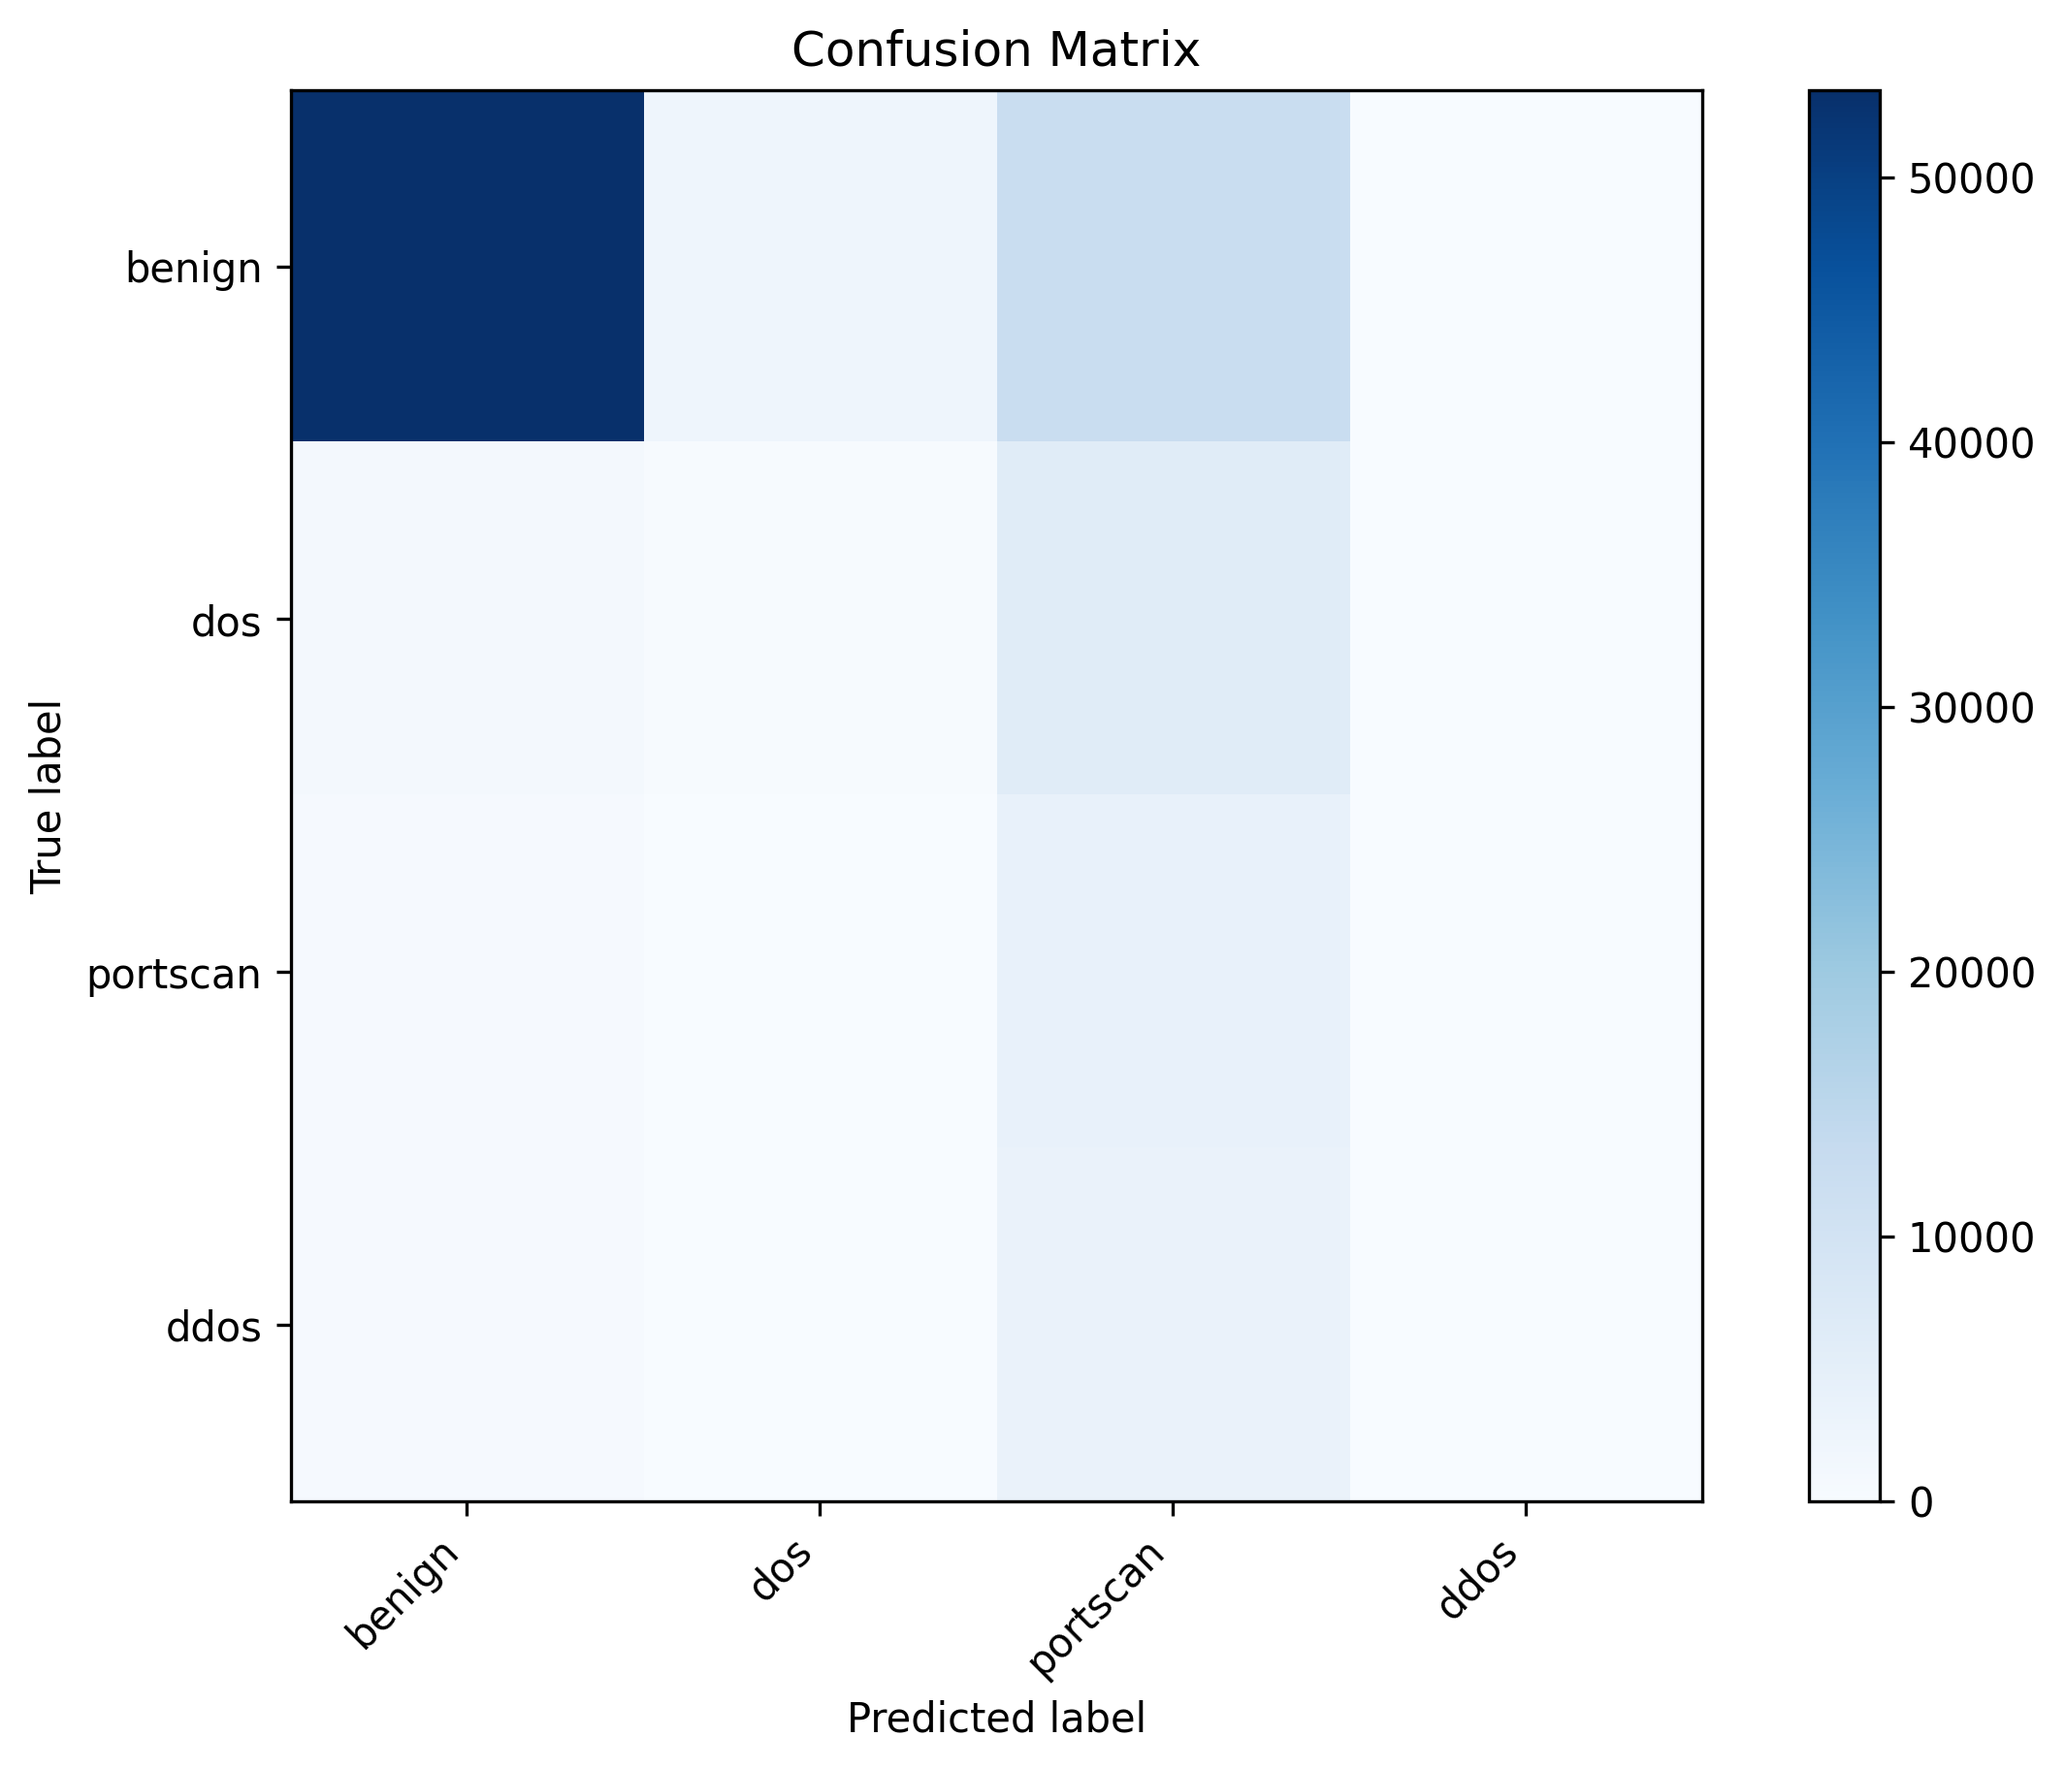
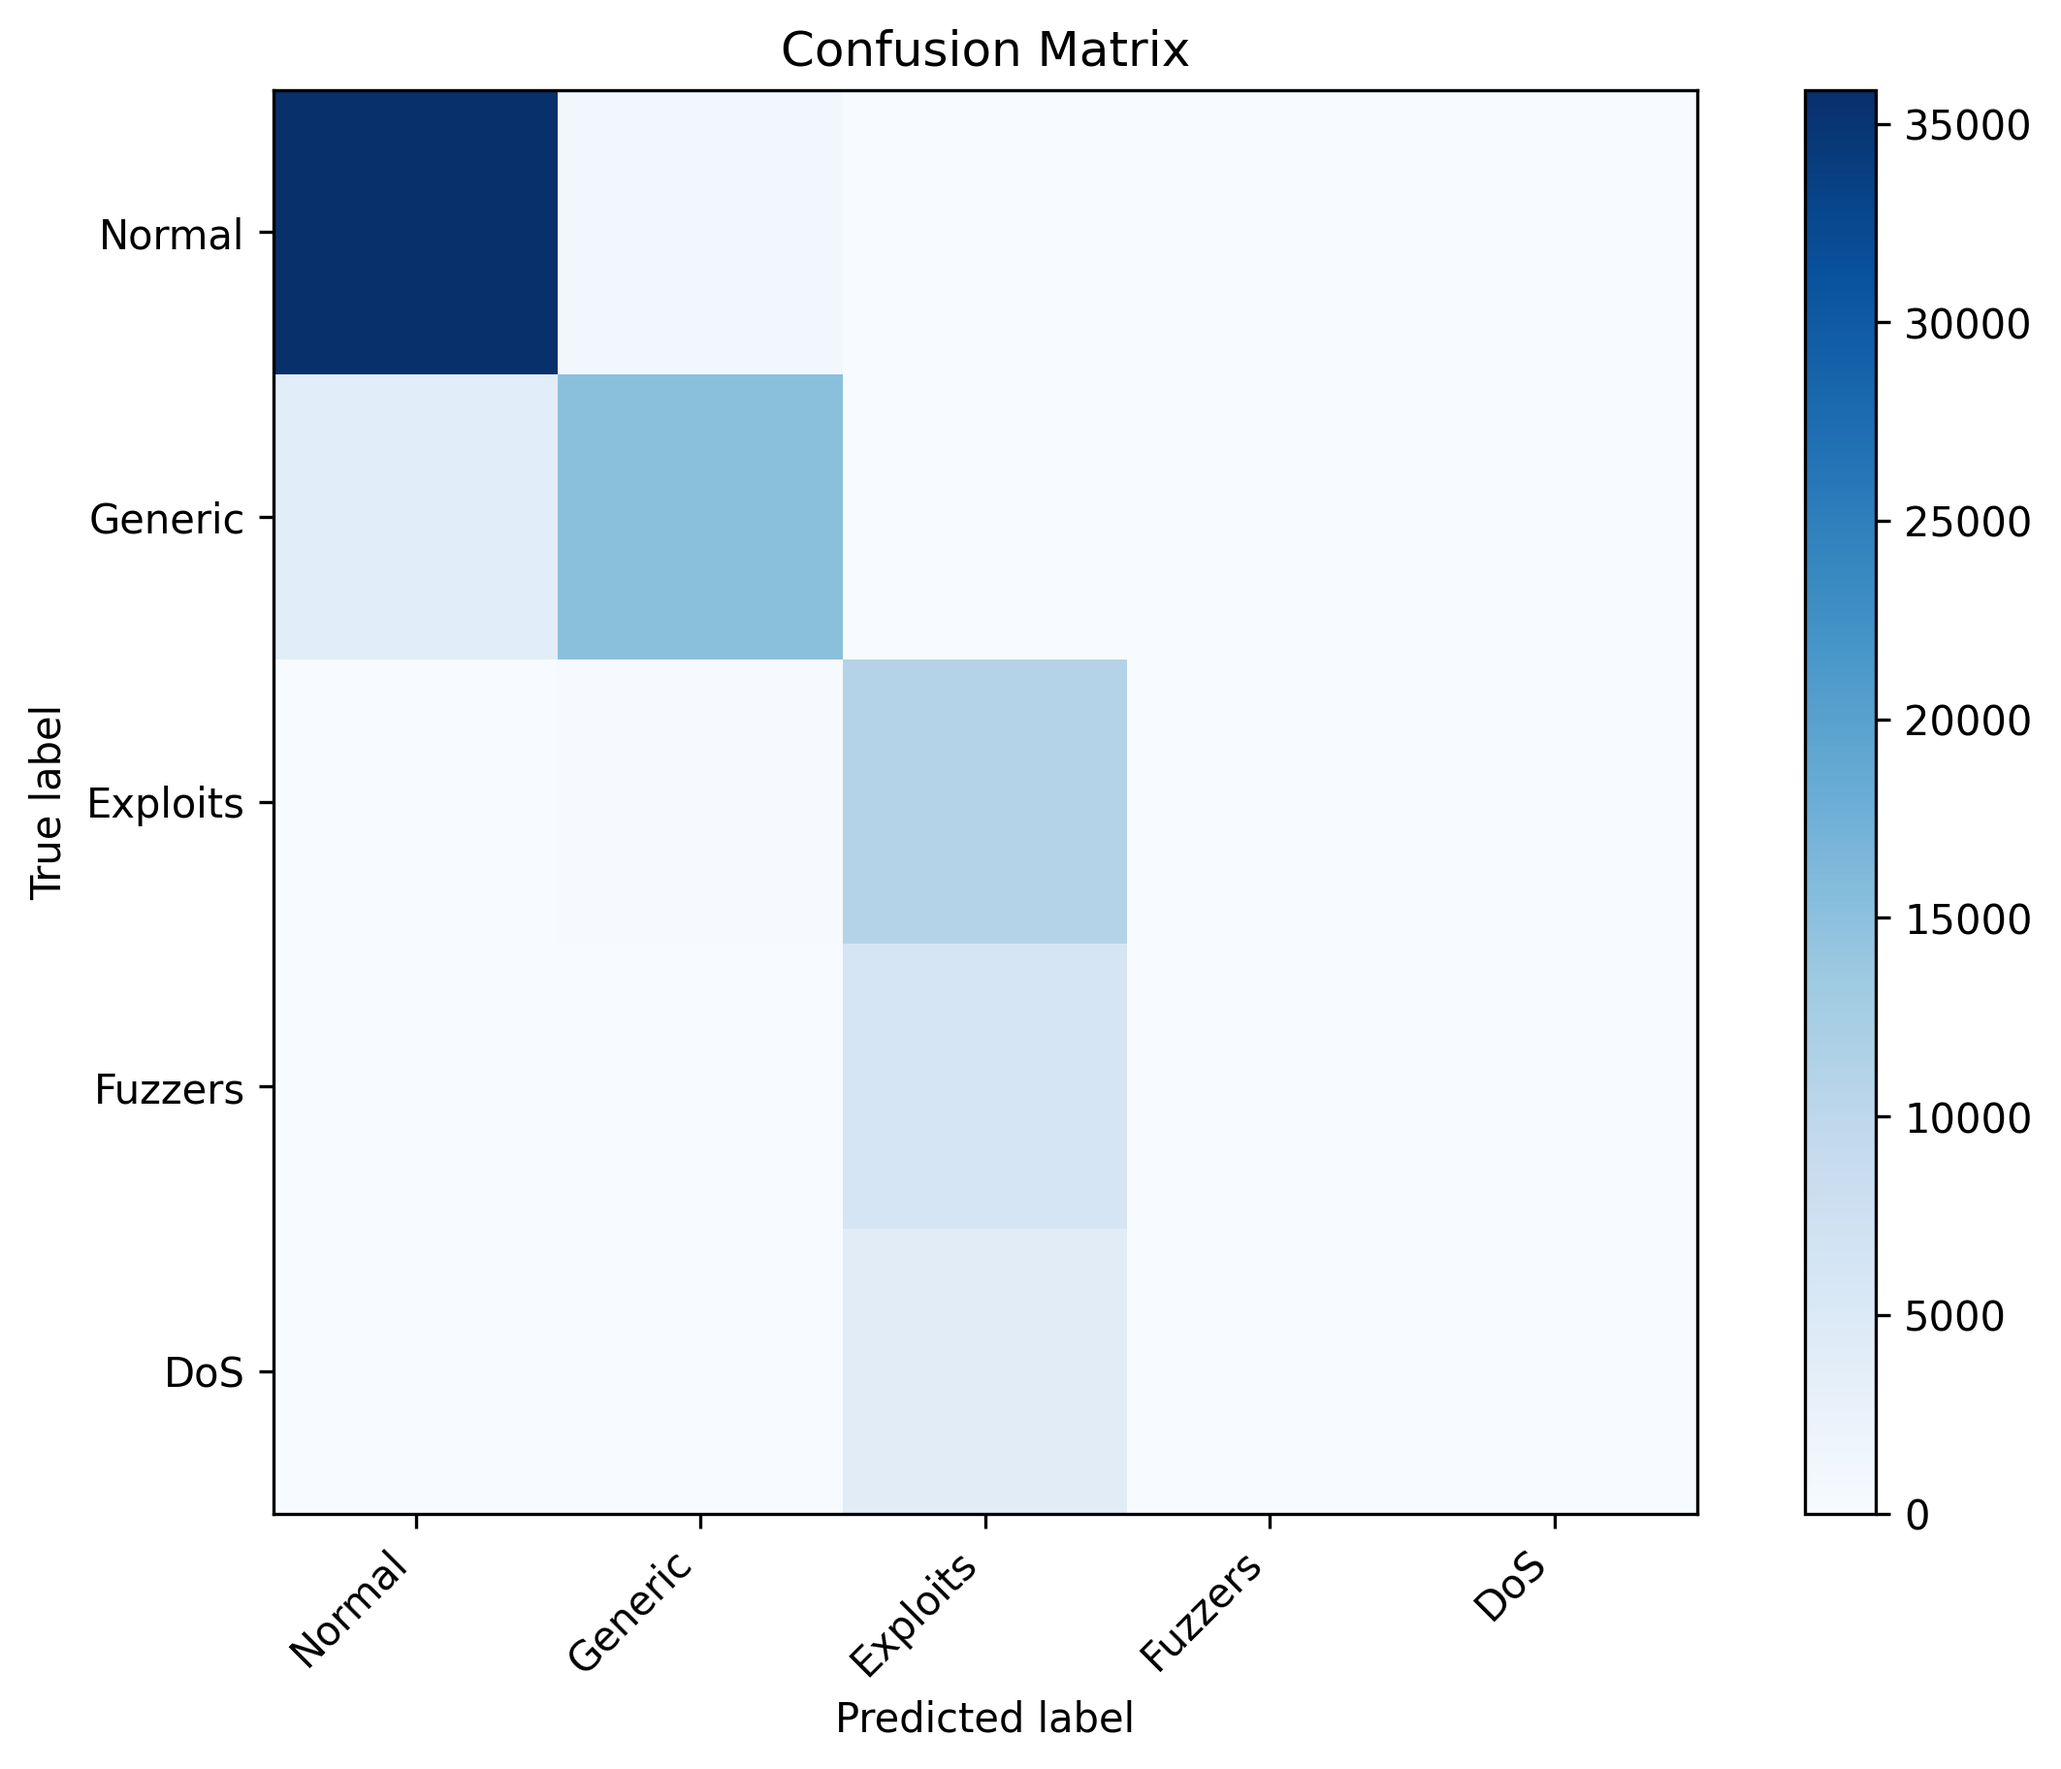
ER fixing measure computation

diff --git a/src/er.py b/src/er.py
@@ -310,21 +310,28 @@ def train_and_evaluate_ER(
 
             # Print only for current task
             if prev_index == task_index:
-                seen_classes = []
-                for t in tasks[:task_index+1]:
+
+                # Classes before this task
+                old_classes = []
+                for t in tasks[:task_index]:
                     for c in t:
-                        if c not in seen_classes:
-                            seen_classes.append(c)
+                        if c not in old_classes:
+                            old_classes.append(c)
+
+                # Classes introduced in this task
+                new_classes = [c for c in task_classes if c not in old_classes]
+
+                # Seen so far (old + new)
+                seen_classes = old_classes + new_classes
 
                 f1_history.append(f1)
 
                 print_task_results(
                     task_index + 1,
-                    task_classes,
-                    seen_classes,
+                    new_classes,      # only current new classes
+                    old_classes,      # previously seen classes
                     acc,
-                    acc_attack,
-                    f1
+                    acc_attack
                 )
 
         # -------------------------
@@ -350,18 +357,16 @@ def train_and_evaluate_ER(
     forgetting_values = []
     forgetting_attack_values = []
 
-    #TODO use Margarita's function for forgetting
-
     forgetting = compute_forgetting(accuracy_matrix)
     forgetting_attack = compute_forgetting(attack_accuracy_matrix)
 
     print_final_metrics(forgetting, forgetting_attack, avg_acc, avg_attack_acc)
 
-    print("accuracy matrix")
-    print(accuracy_matrix)
+    # print("accuracy matrix")
+    # print(accuracy_matrix)
 
-    print("\nattack accuracy matrix")
-    print(attack_accuracy_matrix)
+    # print("\nattack accuracy matrix")
+    # print(attack_accuracy_matrix)
 
     save_training_results(dataset_name, "ER", attack_pattern, accuracy_matrix, attack_accuracy_matrix,
         avg_acc, avg_attack_acc, forgetting, forgetting_attack, output_path)

diff --git a/src/utils.py b/src/utils.py
@@ -30,7 +30,7 @@ def save_training_results(dataset_name, strategy_name, attack_pattern, accuracy_
     with open(file_path, "w") as f:
         json.dump(results, f, indent=2)
 
-def print_task_results(task_num, new_attacks, seen_attacks, accuracy, acc_attack, macro_f1):
+def print_task_results(task_num, new_attacks, seen_attacks, accuracy, acc_attack):
     """
      --- Task 1 ---
     
@@ -42,13 +42,11 @@ def print_task_results(task_num, new_attacks, seen_attacks, accuracy, acc_attack
     """
     accuracy_trunc = math.trunc(accuracy*100)/100 
     acc_attack_trunc = math.trunc(acc_attack*100)/100 
-    macro_f1_trunc = math.trunc(macro_f1*100)/100 
     print(f"   --- Task {task_num} ---\n\n",
         f"   New attacks: {new_attacks}\n",
         f"   Seen so far: {seen_attacks}\n\n",
         f"   accuracy: {accuracy_trunc:.2f}\n",
-        f"   attack_accuracy: {acc_attack_trunc:.2f}\n",
-        f"   macro-f1: {macro_f1_trunc:.2f}\n\n")
+        f"   attack_accuracy: {acc_attack_trunc:.2f}\n")
 
 def print_scenario(attack_pattern):
     print(f"=== Scenario - {attack_pattern} ===\n\n")
